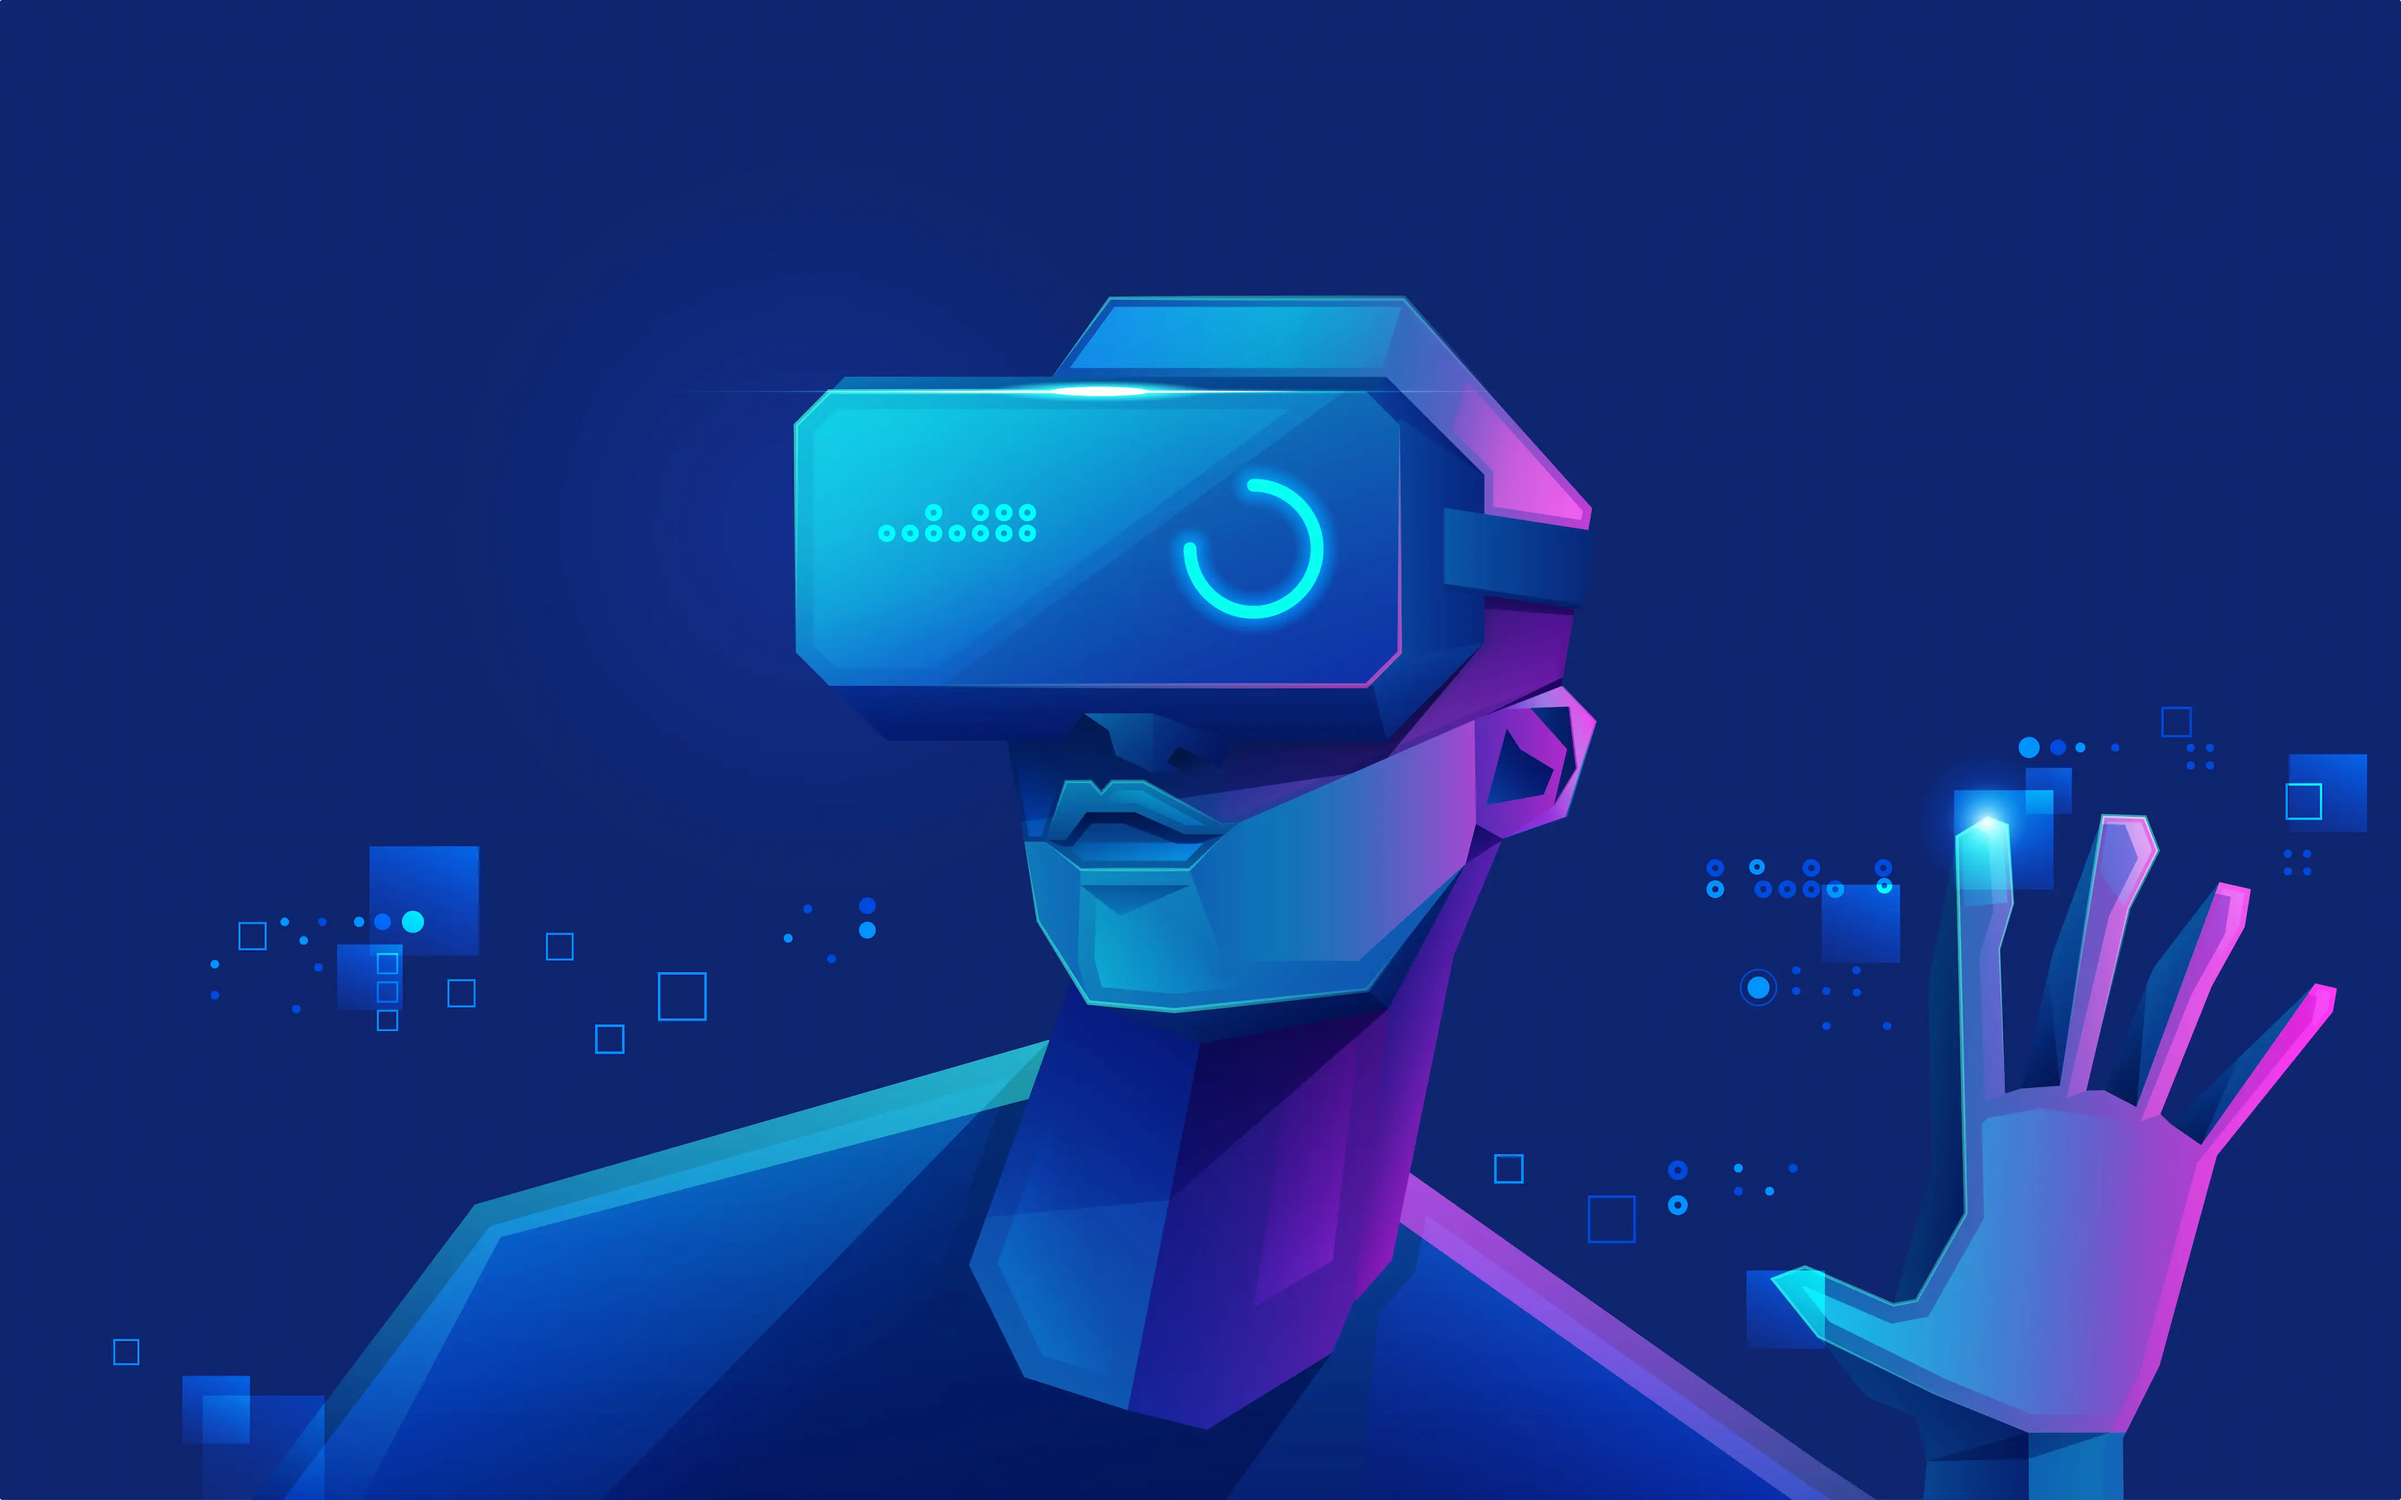
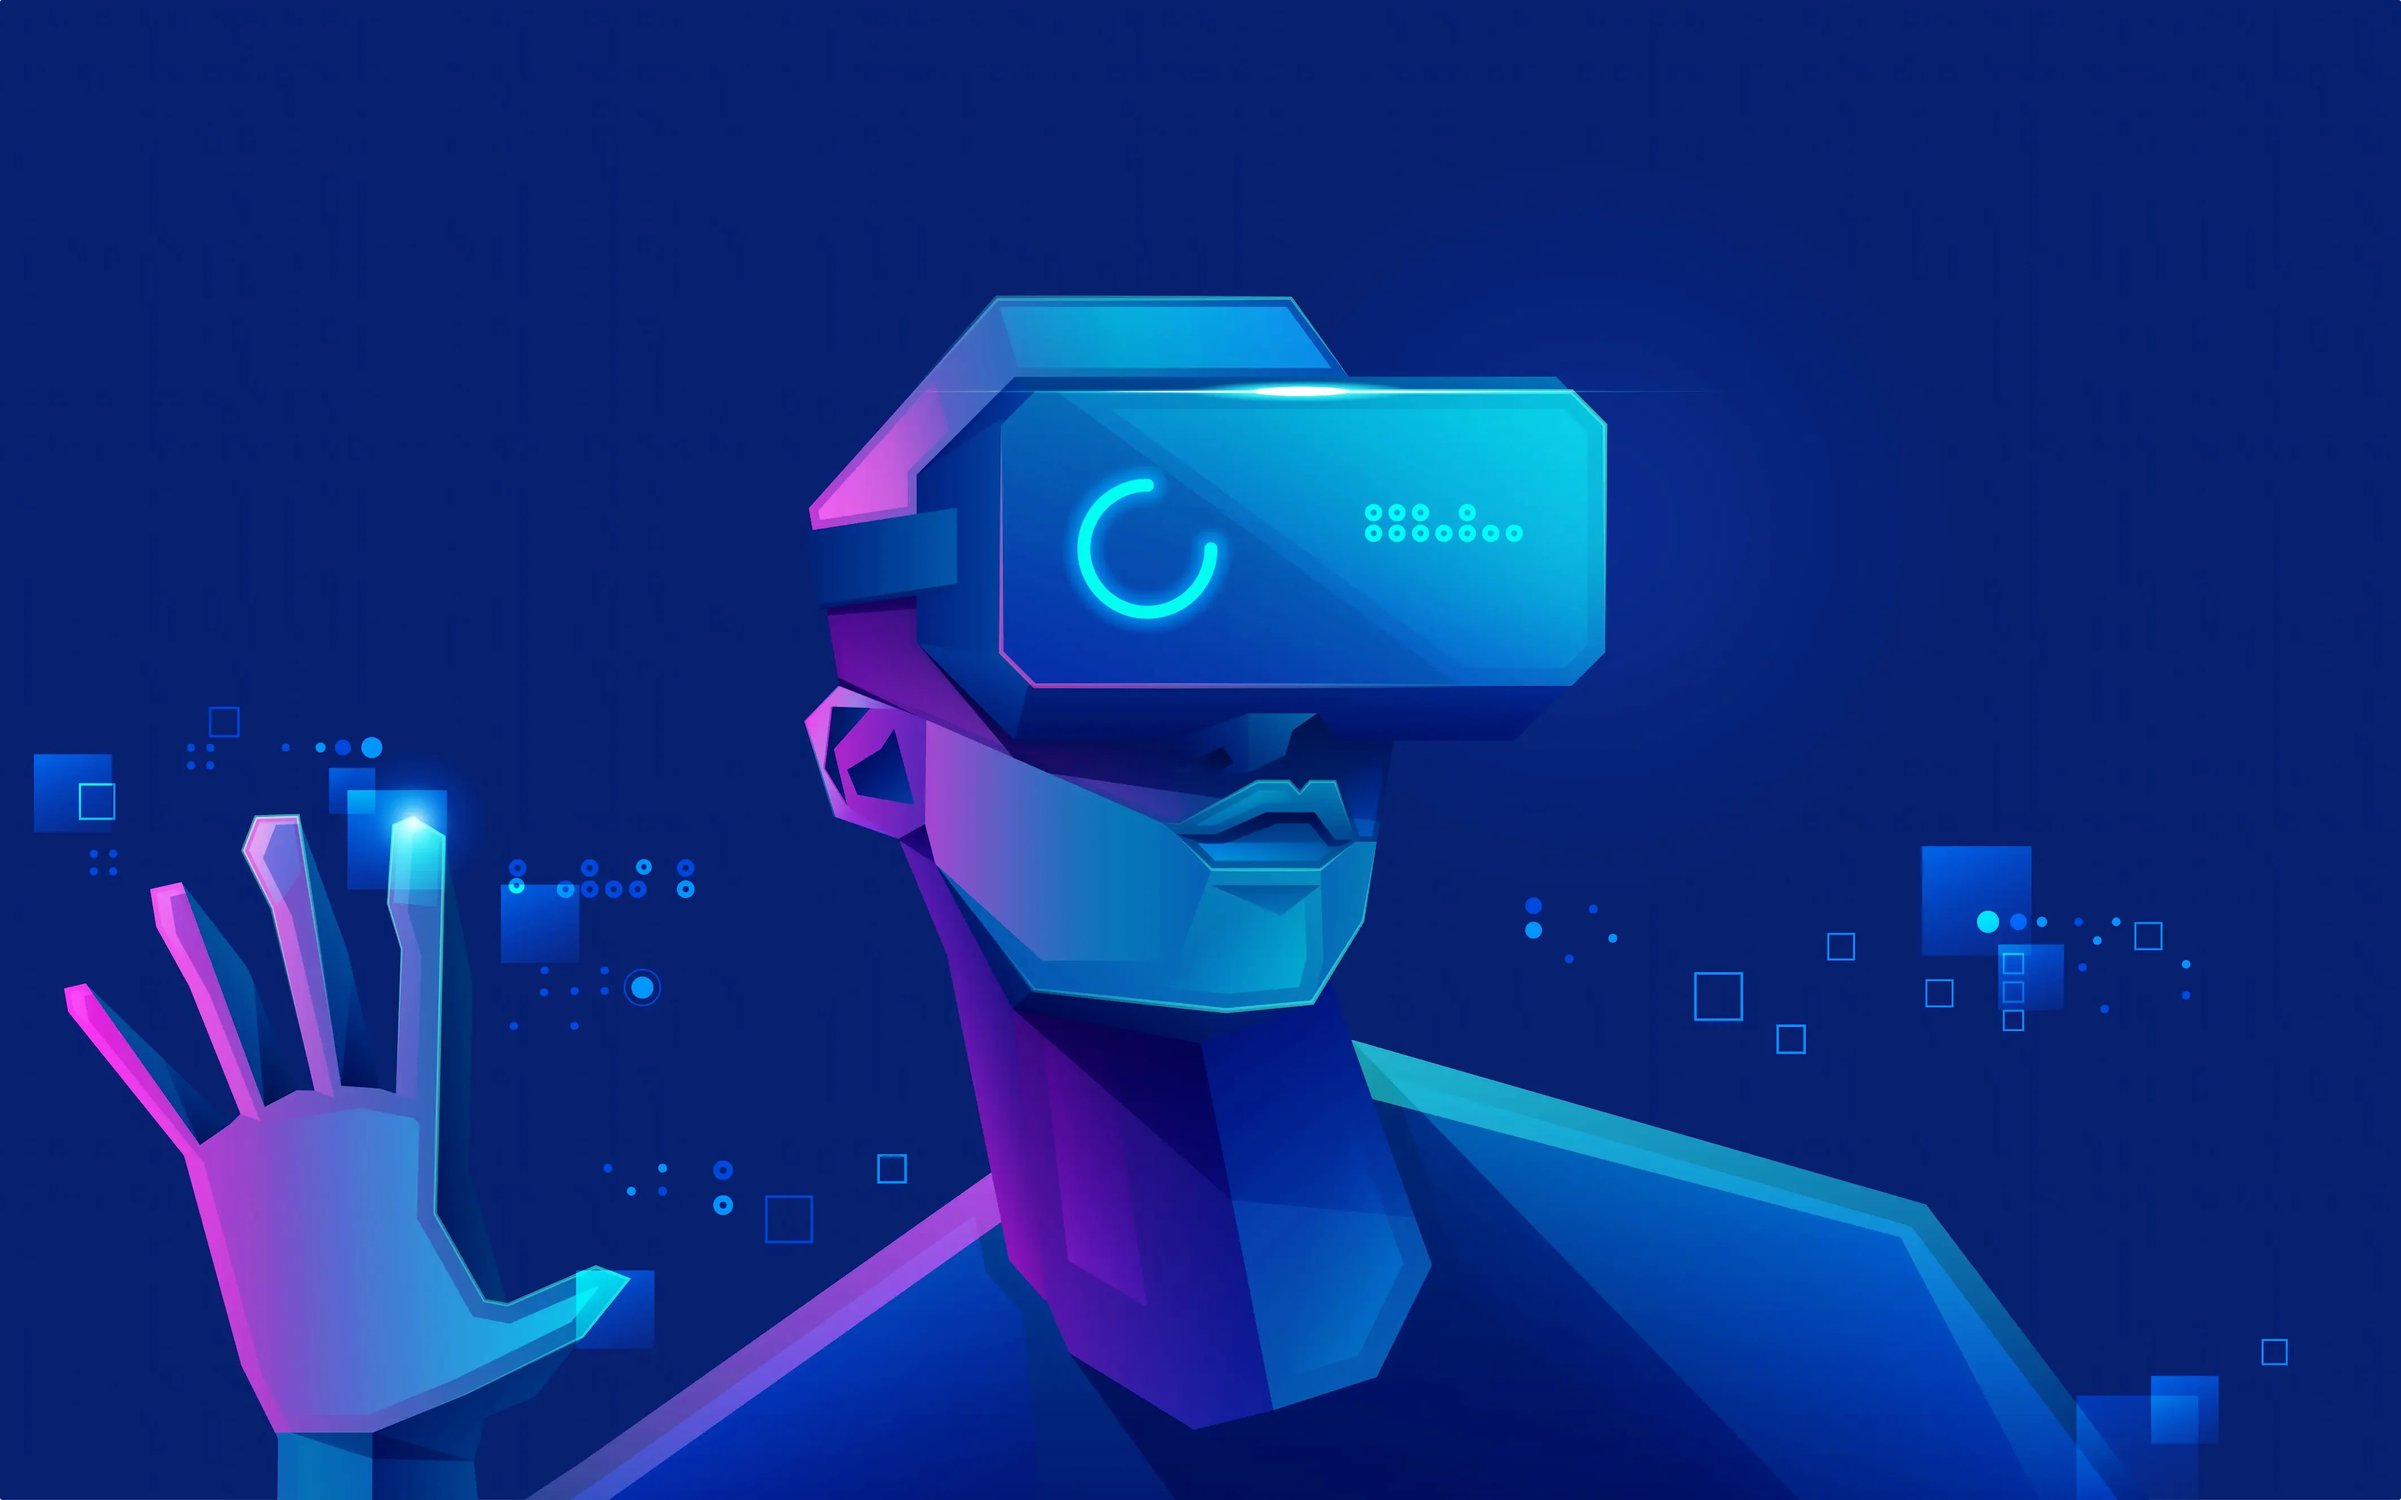
mirror auth-bg.webp

diff --git a/src/app/components/login-register/login-register.component.scss b/src/app/components/login-register/login-register.component.scss
@@ -65,8 +65,6 @@
             aspect-ratio: 16/13;
             object-fit: cover;
             object-position: 50%;
-
-            transform: scaleX(-1);
         }
     }
 }
